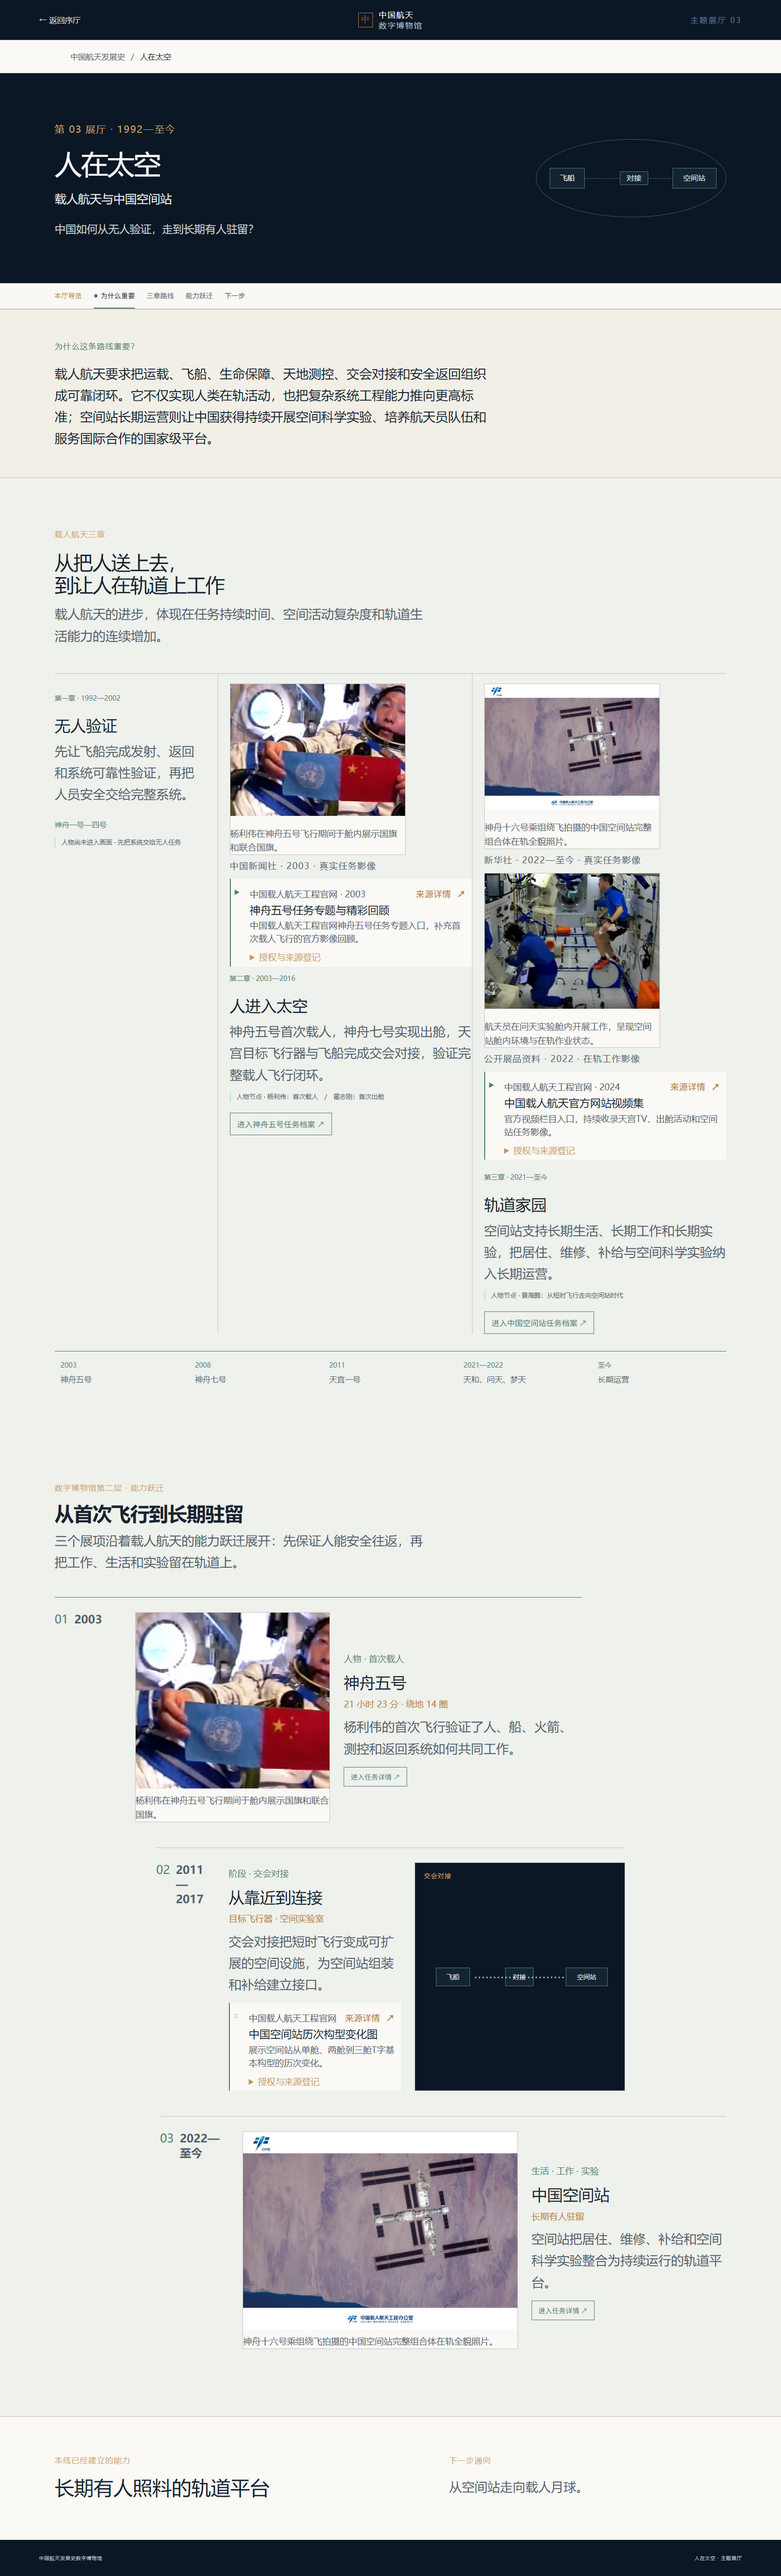
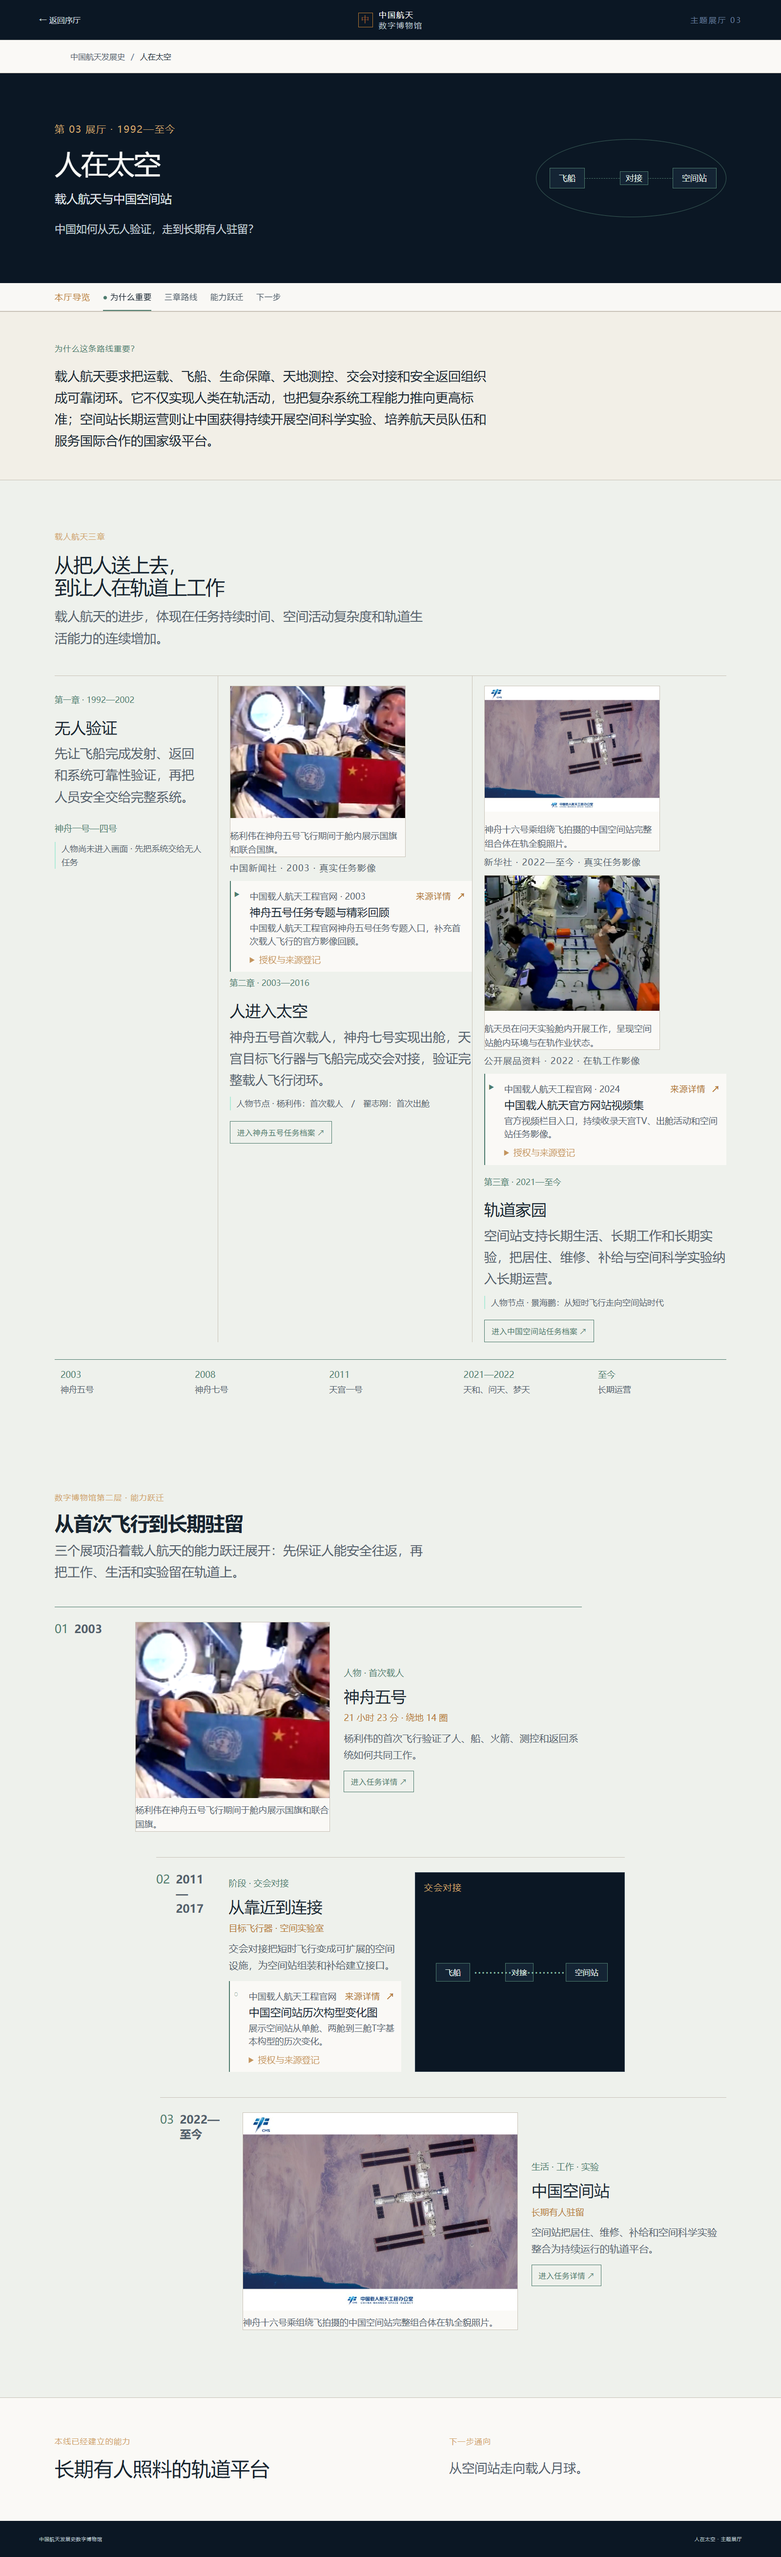
fix: finish PC typography and collision polish

diff --git a/src/e3.css b/src/e3.css
@@ -1008,3 +1008,132 @@ button:focus-visible, a:focus-visible { outline-color: var(--museum-bronze); }
   .story-media .official-media-copy p { font-size: 18px !important; line-height: 1.6; }
   .official-media-details dl > div { grid-template-columns: 96px minmax(0, 1fr); }
 }
+
+/* V5.0-PC：可读性与碰撞终审，仅收口桌面端遗留小字和内容驱动高度。 */
+@media (min-width: 801px) {
+  .museum-hero-copy > p:not(.eyebrow) {
+    max-width: 34em;
+    font-size: 22px;
+    line-height: 1.6;
+  }
+  .status,
+  .online-link,
+  .enter-button,
+  .primary-button { font-size: 16px; }
+  .hero-orbit-label {
+    right: max(7vw, calc((100vw - 1380px) / 2));
+    max-width: 14em;
+    font-size: 16px;
+    line-height: 1.6;
+  }
+  .hero-orbit-label strong { font-size: 18px; }
+  .hero-year { right: max(5vw, calc((100vw - 1380px) / 2)); font-size: 16px; line-height: 1.4; }
+  .hero-year span { font-size: 15px; }
+
+  .development-network-wrap { padding-top: 26px; padding-bottom: 20px; }
+  .network-years text,
+  .network-node text { font-size: 18px !important; }
+  .network-node--2 text { transform: translateY(24px); }
+  .network-lane-label { font-size: 18px; }
+  .development-network-hint { font-size: 16px; line-height: 1.7; }
+  .development-network-note { align-items: baseline; gap: 10px 18px; font-size: 17px; line-height: 1.7; }
+  .development-network-note strong,
+  .development-network-note span { font-size: inherit; }
+
+  .timeline-section--compact { padding-top: 96px; padding-bottom: 96px; }
+  .timeline-section--compact .section-kicker,
+  .timeline-section--compact .section-heading p { font-size: 18px; line-height: 1.7; }
+  .timeline-compact-wall > article { min-height: 340px !important; padding-left: 24px !important; padding-right: 24px !important; }
+  .timeline-compact-wall > article:first-of-type { padding-left: 0 !important; }
+  .timeline-compact-wall > article:last-of-type { padding-right: 0 !important; }
+  .timeline-section--compact .timeline-compact-wall time { font-size: 18px !important; line-height: 1.3; }
+  .timeline-compact-wall .timeline-wall-index { top: 38px; font-size: 16px; line-height: 1.4; }
+  .timeline-wall-marker { top: 72px; }
+  .timeline-compact-wall > article[data-emphasis="major"] .timeline-wall-marker { top: 70px; }
+  .timeline-compact-wall > article > div { margin-top: 112px; padding-right: 6px; }
+  .timeline-compact-wall h3 { font-size: 20px; line-height: 1.4; }
+  .timeline-compact-wall > article[data-emphasis="major"] h3 { font-size: 24px; }
+  .timeline-compact-wall p { max-width: 18em; font-size: 18px; line-height: 1.7; }
+
+  .tech-section--compact .branch-node { font-size: 16px; }
+  .tech-section--compact .branch-relation { font-size: 17px; line-height: 1.6; }
+
+  .story-tour { gap: 26px; }
+  .story-tour span,
+  .story-tour a { font-size: 17px; }
+  .story-page .story-hero-visual span,
+  .story-page .story-hero-visual i,
+  .story-page .story-hero-visual b,
+  .story-page .story-hero-visual em { font-size: 17px; line-height: 1.5; }
+  .story-page button { font-size: 16px; }
+  .story-page .grand-node-index,
+  .story-page .grand-node-status,
+  .story-page .grand-node small { font-size: 17px; line-height: 1.5; }
+  .story-page .story-node b { font-size: 18px; }
+  .story-page .story-node em { font-size: 16px; }
+  .deep-dive-meta time,
+  .deep-dive-schematic > span { font-size: 18px; }
+
+  .launch-ladder { align-items: stretch; grid-auto-rows: auto; }
+  .launch-step { min-height: 0; height: auto; padding: 24px 18px 28px; }
+  .launch-step > span { font-size: 16px; line-height: 1.5; }
+  .launch-step-metrics { font-size: 17px; line-height: 1.6; }
+  .launch-step-details summary,
+  .launch-step-details dl { font-size: 16px; line-height: 1.6; }
+  .launch-step-details dl div { grid-template-columns: 58px minmax(0, 1fr); }
+  .launch-capability-chain span,
+  .human-people-strip span,
+  .lunar-sample-note > span,
+  .planetary-engineering-chain span,
+  .planetary-chain-items span { font-size: 16px; }
+  .launch-capability-chain p,
+  .human-people-strip p,
+  .lunar-sample-note p,
+  .planetary-engineering-chain p,
+  .planetary-chain-items p { font-size: 18px; line-height: 1.7; }
+
+  .satellite-use-cases > article > span,
+  .satellite-use-cases .satellite-output small { font-size: 16px; line-height: 1.5; }
+  .satellite-use-cases p,
+  .planetary-anchor-grid p,
+  .deep-dive-copy > p { font-size: 20px; line-height: 1.7; }
+  .satellite-use-cases strong { font-size: 20px; line-height: 1.45; }
+  .satellite-use-cases .satellite-output b { font-size: 18px; line-height: 1.5; }
+
+  .human-chapters > article > span,
+  .human-chapters article > div > span,
+  .human-chapter-person { font-size: 17px; line-height: 1.6; }
+  .human-chapters article > b { font-size: 18px; }
+  .human-stage-strip span { font-size: 17px; line-height: 1.5; }
+  .human-stage-strip b { font-size: 18px; }
+
+  .lunar-main-route article > b { font-size: 30px; }
+  .lunar-main-route time,
+  .lunar-side-branch header span,
+  .lunar-branch-sequence article b { font-size: 18px; line-height: 1.5; }
+  .lunar-main-route p,
+  .lunar-branch-sequence article span { font-size: 20px; line-height: 1.7; }
+  .lunar-side-branch header strong { font-size: 30px; }
+  .lunar-branch-sequence article strong { font-size: 18px; }
+  .lunar-sample-note a { font-size: 16px; }
+
+  .planetary-distance-note > span { font-size: 17px; line-height: 1.5; }
+  .planetary-distance-note p { font-size: 20px; line-height: 1.7; }
+  .planetary-distance > div { font-size: 18px; }
+  .planetary-distance .distance-flight small { font-size: 16px; }
+  .planetary-anchor-grid article > div > span { font-size: 17px; line-height: 1.5; }
+  .planetary-future .story-node em { font-size: 16px; }
+  .deep-dive-schematic--rendezvous i,
+  .deep-dive-schematic--rendezvous b,
+  .deep-dive-schematic--rendezvous em,
+  .deep-dive-schematic--deep-space i,
+  .deep-dive-schematic--deep-space em { font-size: 16px; }
+
+  .mission-process--crewed .crew-orbit-visual { min-height: 560px; }
+
+  .official-media-card,
+  .official-media-copy { min-width: 0; min-height: 0; height: auto; }
+  .official-media-card { grid-template-rows: minmax(120px, auto) auto; align-items: start; }
+  .official-media-copy h3 { min-height: 0; }
+  .official-media-details { height: auto; max-height: none; }
+}

diff --git a/src/components/DevelopmentLines/DevelopmentLines.jsx b/src/components/DevelopmentLines/DevelopmentLines.jsx
@@ -35,7 +35,7 @@ export default function DevelopmentLines({ onEnter }) {
             const dimmed = isDimmed(lane.id)
             return <g className={`network-lane ${dimmed ? 'is-dimmed' : ''} ${hovered === lane.id ? 'is-hovered' : ''}`} key={lane.id} onMouseEnter={() => setHovered(lane.id)} onMouseLeave={() => setHovered(null)} onFocus={() => setHovered(lane.id)} onBlur={() => setHovered(null)} onClick={() => onEnter(line.grandHallId)} onKeyDown={(event) => { if (event.key === 'Enter' || event.key === ' ') { event.preventDefault(); onEnter(line.grandHallId) } }} role="button" tabIndex="0" aria-label={`进入${line.name}主题展厅`}>
               <path className="network-lane-path" d={`M48 ${laneY[lane.id]} H950`} style={{ stroke: line.color }} />
-              {lane.nodes.map(([year, label]) => <g className="network-node" key={`${year}-${label}`}><circle cx={xForYear(year)} cy={laneY[lane.id]} r={hovered === lane.id ? 7 : 5} style={{ stroke: line.color }} /><text x={xForYear(year)} y={laneY[lane.id] - 14} textAnchor="middle">{label}</text></g>)}
+              {lane.nodes.map(([year, label], index) => <g className={`network-node network-node--${index + 1}`} key={`${year}-${label}`}><circle cx={xForYear(year)} cy={laneY[lane.id]} r={hovered === lane.id ? 7 : 5} style={{ stroke: line.color }} /><text x={xForYear(year)} y={laneY[lane.id] - 14} textAnchor="middle">{label}</text></g>)}
               <text className="network-lane-label" x="10" y={laneY[lane.id] + 5} style={{ fill: line.color }}>{line.name}</text>
             </g>
           })}

diff --git a/src/App.jsx b/src/App.jsx
@@ -100,7 +100,7 @@ export default function App() {
             开始参观 <span>↓</span>
           </button>
         </div>
-        <div className="hero-orbit-label"><span className="orbit-line" />地球轨道<br /><strong>展览运行中</strong></div>
+        <div className="hero-orbit-label"><span className="orbit-line" />地球轨道<br /><strong>轨道示意</strong></div>
         <div className="hero-year">1956—2026<span>中国航天发展史</span></div>
       </section>
 

diff --git a/docs/iterations/v5.0-pc-final-polish.md b/docs/iterations/v5.0-pc-final-polish.md
@@ -1,0 +1,23 @@
+# V5.0 PC 可读性与布局碰撞终审
+
+本轮只处理 1600×900 桌面端的遗留小字号、时间线节点碰撞和内容容器高度；不改移动端规则、数据事实、启动器或现有 Tag。
+
+## 字体审计
+
+修改前通过本地 Edge/Playwright 的 `getComputedStyle()` 实测：首页时间线年份约 13px、节点标签约 14–15px、跨线支撑 14px、关键时刻序号 11px；五厅导航 13–14px，进入太空参数 12–13px，人物/探月/行星的部分标签 12–15px。主要正文已在 18–26px 区间。
+
+修改后 PC 层级为：Hero 副标题 22px；核心正文 26px；卡片/次级正文 18–20px；导航 17px；年份 18px；时间线序号 16px、节点标签 18px；Caption/Metadata 18px。首页跨线支撑为 17px，关键时刻年份为 18px、序号/类别为 16px。
+
+仍低于 16px 的只有品牌字标/页脚脚注（10–15px），属于品牌识别或版权式收尾信息，不承担展陈正文阅读。
+
+## 布局修正
+
+- 首页 Hero 副标题提升到 22px；右侧状态从“展览运行中”改为准确的“轨道示意”，避免静态视觉与运行状态冲突。
+- 首页五主线时间线节点字号提升并对第二节点采用交错基线；辅助说明允许换行并提高到 16–17px，避免相邻节点抢空间。
+- 关键时刻时间墙增加卡片纵向空间，年份、序号、节点标题和正文分层放置，不以缩小字号维持旧高度。
+- 展厅导航、火箭参数、卫星应用编号/类别、人物章节标签、探月支路、行星工程标签统一纳入语义字号层级。
+- 来源卡、任务卡、图片说明卡增加 `min-width: 0`、内容驱动高度和自然换行约束；确认并修复 1 个旧任务页 `.crew-orbit-visual` 固定高度不足导致的状态卡裁切，PC 高度由 520px 调整为 560px。
+
+## 验收
+
+本地 Edge/Playwright 检查：首页、五厅及旧任务页 `#/hall/shenzhou5`，100%/125%/150%/200% 均无 console error、page error、HTTP 4xx/5xx、broken image、horizontal overflow 或持续性裁切容器。六张 1600×900 PC fullPage 截图位于 `docs/screenshots/review/latest/`。
